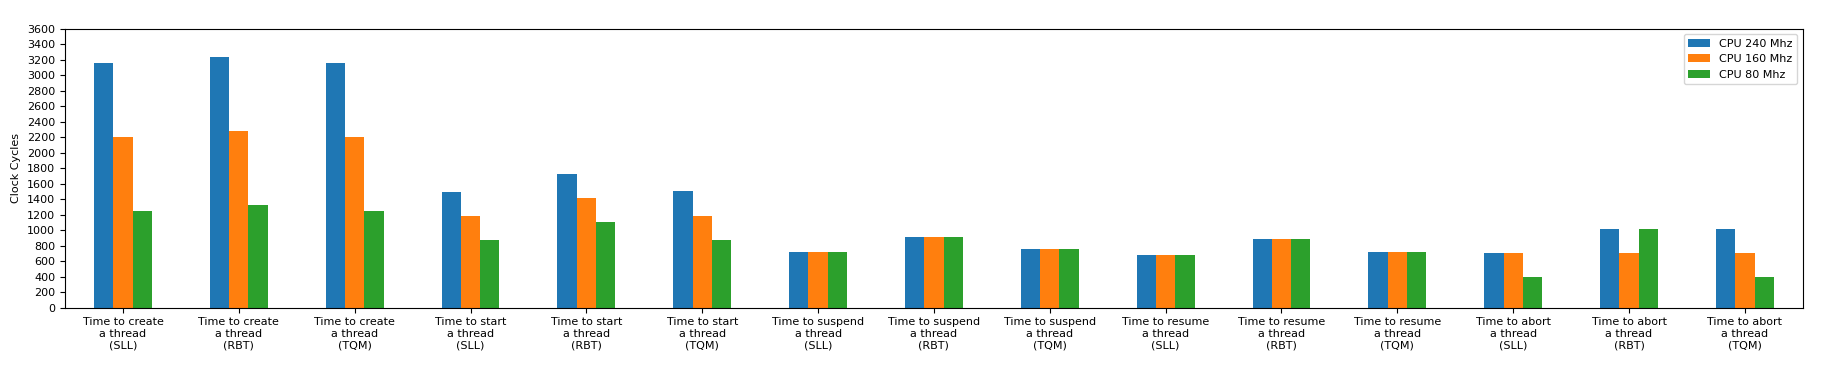
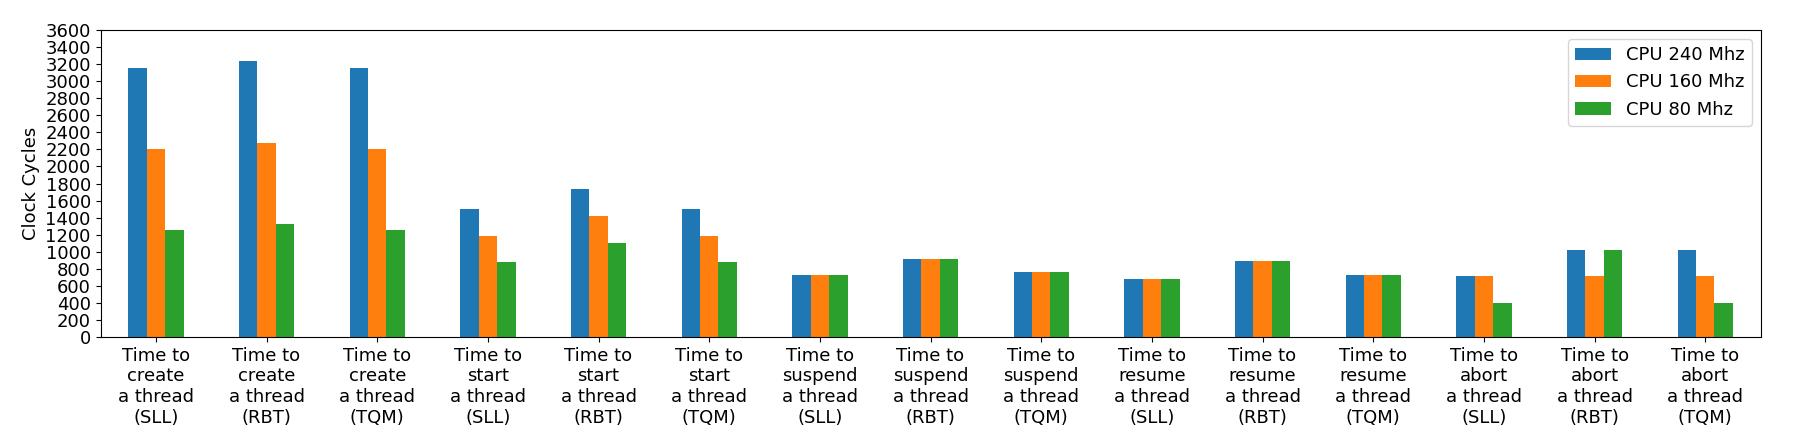
final - at least

Changed region(s): [[0.0, 0.0603, 0.9967, 0.9945], [0.8721, 0.5726, 0.9032, 0.6932]]

diff --git a/stacked_columns.py b/stacked_columns.py
@@ -2,31 +2,31 @@ import pandas as pd
 import matplotlib.pyplot as mp
 import numpy as np
 
-mp.rcParams.update({'font.size': 8}) # must set in top
+mp.rcParams.update({'font.size': 13}) # must set in top
 
 # data to be plotted
 
 
 data = [
-    ["Time to create\na thread\n(SLL)", 3160, 2203, 1252],
-    ["Time to create\na thread\n(RBT)", 3236, 2279, 1328],
-    ["Time to create\na thread\n(TQM)", 3160, 2203, 1252],
+    ["Time to\ncreate\n(SLL)", 3160, 2203, 1252],
+    ["Time to\ncreate\n(RBT)", 3236, 2279, 1328],
+    ["Time to\ncreate\n(TQM)", 3160, 2203, 1252],
 
-    ["Time to start\na thread\n(SLL)", 1499, 1187, 873],
-    ["Time to start\na thread\n(RBT)", 1730, 1417, 1103],
-    ["Time to start\na thread\n(TQM)", 1502, 1189, 876],
+    ["Time to\nstart\n(SLL)", 1499, 1187, 873],
+    ["Time to\nstart\n(RBT)", 1730, 1417, 1103],
+    ["Time to\nstart\n(TQM)", 1502, 1189, 876],
 
-    ["Time to suspend\na thread\n(SLL)", 724, 724, 724],
-    ["Time to suspend\na thread\n(RBT)", 914, 914, 914],
-    ["Time to suspend\na thread\n(TQM)", 761, 761, 761],
+    ["Time to\nsuspend\n(SLL)", 724, 724, 724],
+    ["Time to\nsuspend\n(RBT)", 914, 914, 914],
+    ["Time to\nsuspend\n(TQM)", 761, 761, 761],
 
-    ["Time to resume\na thread\n(SLL)", 681, 681, 681],
-    ["Time to resume\na thread\n(RBT)", 889, 889, 889],
-    ["Time to resume\na thread\n(TQM)", 724, 724, 724],
+    ["Time to\nresume\n(SLL)", 681, 681, 681],
+    ["Time to\nresume\n(RBT)", 889, 889, 889],
+    ["Time to\nresume\n(TQM)", 724, 724, 724],
     
-    ["Time to abort\na thread\n(SLL)", 709, 709, 395],
-    ["Time to abort\na thread\n(RBT)", 1021, 709, 1021],
-    ["Time to abort\na thread\n(TQM)", 1022, 710, 396]
+    ["Time to\nabort\n(SLL)", 709, 709, 395],
+    ["Time to\nabort\n(RBT)", 1021, 709, 1021],
+    ["Time to\nabort\n(TQM)", 1022, 710, 396]
 ]
 
 
@@ -39,8 +39,10 @@ df = pd.DataFrame(data, columns=["",
  
 # plot multiple columns such as population and year from dataframe
 df.plot(x="", y=["CPU 240 Mhz", "CPU 160 Mhz", "CPU 80 Mhz"],
-        kind="bar", figsize=(10, 1), rot =0, yticks=np.arange(0, 3750, 200))
+        kind="bar", figsize=(10, 1.8), rot =0, yticks=np.arange(0, 3750, 200),
+         color=["#77b41f", "#b41f2d", "#1fb4a7"])
 mp.ylabel("Clock Cycles")
 mp.tight_layout()
+mp.ylim(0, 3400)
 # display plot
 mp.show()
